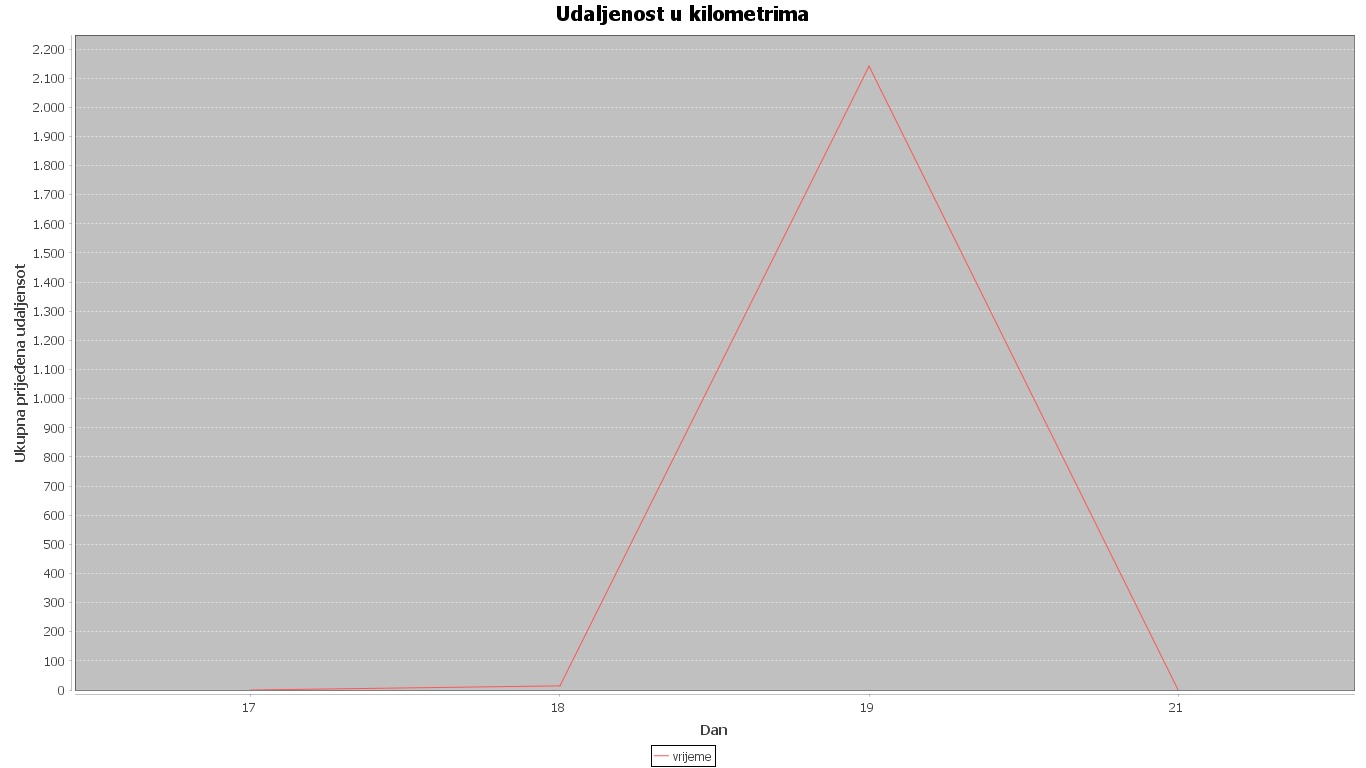
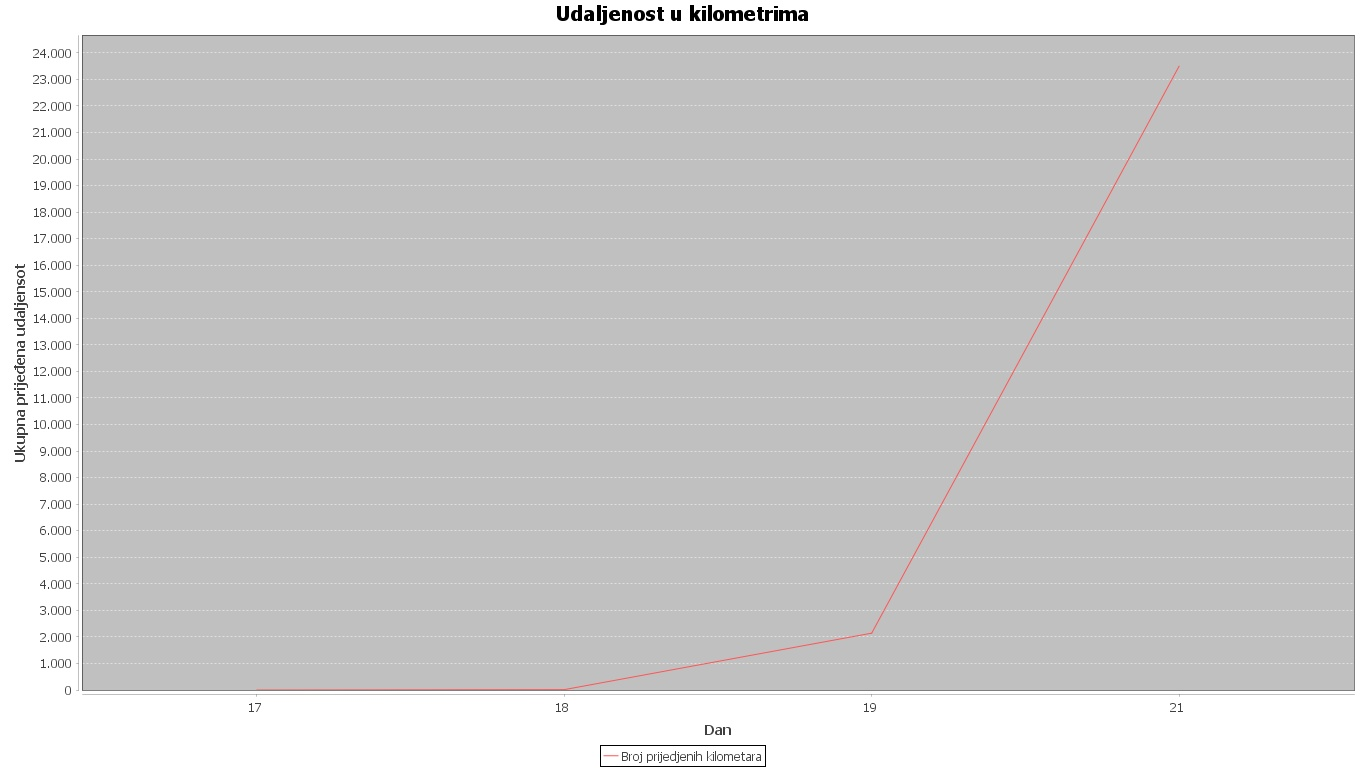
dodan histogram

diff --git a/PhysicalActivityMVC/src/main/java/com/josip/physical/activity/summary/Histogram.java b/PhysicalActivityMVC/src/main/java/com/josip/physical/activity/summary/Histogram.java
@@ -1,0 +1,62 @@
+package com.josip.physical.activity.summary;
+
+import java.io.File;
+import java.io.IOException;
+import java.util.ArrayList;
+import java.util.List;
+
+import org.jfree.chart.ChartFactory;
+import org.jfree.chart.ChartUtilities;
+import org.jfree.chart.JFreeChart;
+import org.jfree.chart.plot.PlotOrientation;
+import org.jfree.data.category.CategoryDataset;
+import org.jfree.data.category.DefaultCategoryDataset;
+import org.springframework.beans.factory.annotation.Autowired;
+import org.springframework.security.core.Authentication;
+import org.springframework.security.core.context.SecurityContextHolder;
+import org.springframework.stereotype.Component;
+
+@Component("Histogram")
+public class Histogram {
+	@Autowired
+	SummaryImplementation sumImpl;
+    @Autowired
+    SummaryActivity sumAct;
+	public Histogram() {
+	
+	}
+	//kategorizacija za legendu
+	final String ukupanBrojKoraka="Broj koraka";
+	final String prijedjeniKilometri="Kilometraža";
+	final String prosjecnaBrzina="Prosječna brzina";
+	
+	//donji dio histograma
+	final String dan="Dan";
+	
+	public File generirajHistogram() throws IOException {
+		List<SummaryActivity> act=new ArrayList<SummaryActivity>();
+		Authentication au=SecurityContextHolder.getContext().getAuthentication();
+		String name=au.getName();
+		act=sumImpl.show(name);
+		final DefaultCategoryDataset dataset = new DefaultCategoryDataset();
+		for (SummaryActivity summaryActivity : act) {
+			String datum1=summaryActivity.getDatum().trim();
+    		String datum2=datum1.substring(8,11);
+    		double sekunde=summaryActivity.getUkupnoVrijeme()/1000;
+    		double minute=sekunde/60;
+			dataset.addValue(minute,ukupanBrojKoraka,datum2);
+			dataset.addValue(minute, prijedjeniKilometri, datum2);
+			dataset.addValue(minute, prosjecnaBrzina, datum2);
+			
+		}
+		JFreeChart barChart= ChartFactory.createBarChart("Ukupna statistika korisnika tijekom vremena trajanja aktivnosti",
+				"Kategorija", "Minute trajanja", dataset,PlotOrientation.VERTICAL,true,true,true);
+		
+		int width=1366;
+		int height=768;
+		File histogram=new File("C:/xampp/htdocs/SustavZaPracenjeFizickeAktivnosti/PhysicalActivityMVC/src/main/webapp/resources/Histogram.jpeg");
+		ChartUtilities.saveChartAsJPEG(histogram, barChart, width, height);
+		return histogram;
+	}
+
+}

diff --git a/PhysicalActivityMVC/src/main/java/com/josip/physical/activity/summary/SummaryController.java b/PhysicalActivityMVC/src/main/java/com/josip/physical/activity/summary/SummaryController.java
@@ -24,36 +24,25 @@ private SummaryRepository summaryRepository;
 
 @Autowired
 LineChart lineChart;
-
+@Autowired
+Histogram histogram;
 @Autowired
 public SummaryController(SummaryRepository summaryRepository) {
 	this.summaryRepository=summaryRepository;
 	
 }
 @RequestMapping(value= {"/sum"},method=RequestMethod.GET)
-public String sum(Model model) {
+public String sum(Model model) throws IOException {
 	Authentication au=SecurityContextHolder.getContext().getAuthentication();
 	   String name=au.getName();
 	model.addAttribute("sum",summaryRepository.show(name));
 	model.addAttribute("ukupnoBicikliranja",summaryRepository.izlistaj(name));
 	model.addAttribute("ukupnoTrcanje",summaryRepository.lista(name));
 	model.addAttribute("ukupnoHodanja",summaryRepository.izlistajHod(name));
+    model.addAttribute(lineChart.generate(0));
+    model.addAttribute(histogram.generirajHistogram());
+	
 	return "sum";
 }
-@RequestMapping(value= {"/sum"},method=RequestMethod.POST)
-public String kreirajGraf(Model model) throws IOException {
-    
-    
 
-			
-			
-	Authentication au=SecurityContextHolder.getContext().getAuthentication();
-			   String name=au.getName();
-	model.addAttribute("sum",summaryRepository.show(name));
-	model.addAttribute("ukupnoBicikliranja",summaryRepository.izlistaj(name));
-	model.addAttribute("ukupnoTrcanje",summaryRepository.lista(name));
-	model.addAttribute("ukupnoHodanja",summaryRepository.izlistajHod(name));
-	model.addAttribute(lineChart.generate(0));
-	return "sum";
-}
 }

diff --git a/PhysicalActivityMVC/src/main/java/com/josip/physical/activity/summary/LineChart.java b/PhysicalActivityMVC/src/main/java/com/josip/physical/activity/summary/LineChart.java
@@ -50,7 +50,7 @@ public class LineChart {
     		double minute=sekunde/60;
     		
     		line_chart_dataset.addValue( minute , "vrijeme" , datum2);
-    		lnd.addValue(summaryActivity.getPrijedjeniKilometri(), "vrijeme", datum2);
+    		lnd.addValue(summaryActivity.getPrijedjeniKilometri(), "Broj prijedjenih kilometara", datum2);
     	
 		}
         indeks+=broj;
@@ -59,13 +59,13 @@ public class LineChart {
     	"Ukupna aktivnost","Dan",
     	"Vrijeme u minutama",
     	line_chart_dataset,PlotOrientation.VERTICAL,
-    	true,true,false);
+    	true,true,true);
     	int width = 1366; /* Width of the image */
     	int height = 768; /* Height of the image */
     	File lineChart = new File( "C:/xampp/htdocs/SustavZaPracenjeFizickeAktivnosti/PhysicalActivityMVC/src/main/webapp/resources/LineChart.jpeg" );
     	ChartUtilities.saveChartAsJPEG(lineChart ,lineChartObject, width, height);
     	
-    	JFreeChart lnch=ChartFactory.createLineChart("Udaljenost u kilometrima","Dan","Ukupna prijeđena udaljensot",lnd,PlotOrientation.VERTICAL,true,true,false);
+    	JFreeChart lnch=ChartFactory.createLineChart("Udaljenost u kilometrima","Dan","Ukupna prijeđena udaljensot",lnd,PlotOrientation.VERTICAL,true,true,true);
     	width = 1366; /* Width of the image */
     	height = 768; /* Height of the image */
     	lineChart = new File( "C:/xampp/htdocs/SustavZaPracenjeFizickeAktivnosti/PhysicalActivityMVC/src/main/webapp/resources/LineChart2.jpeg" );
